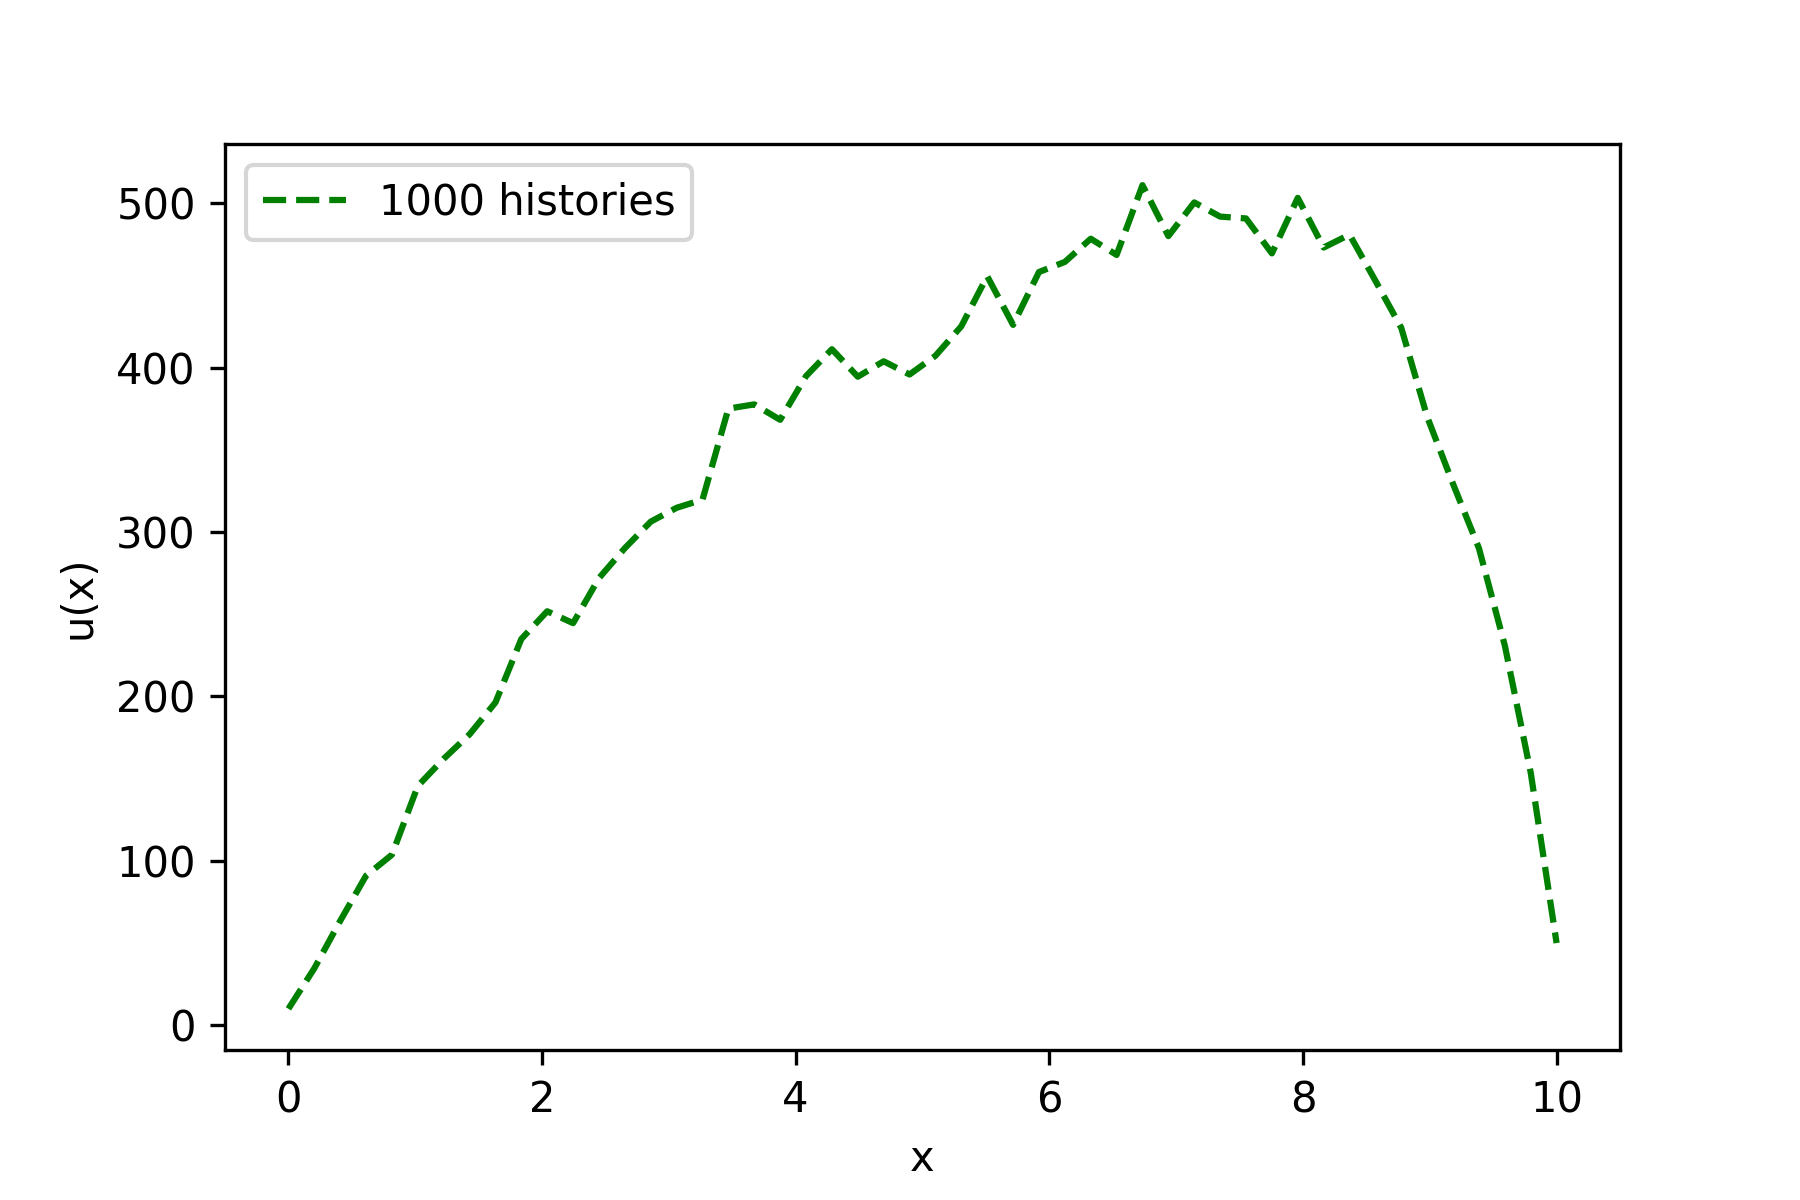
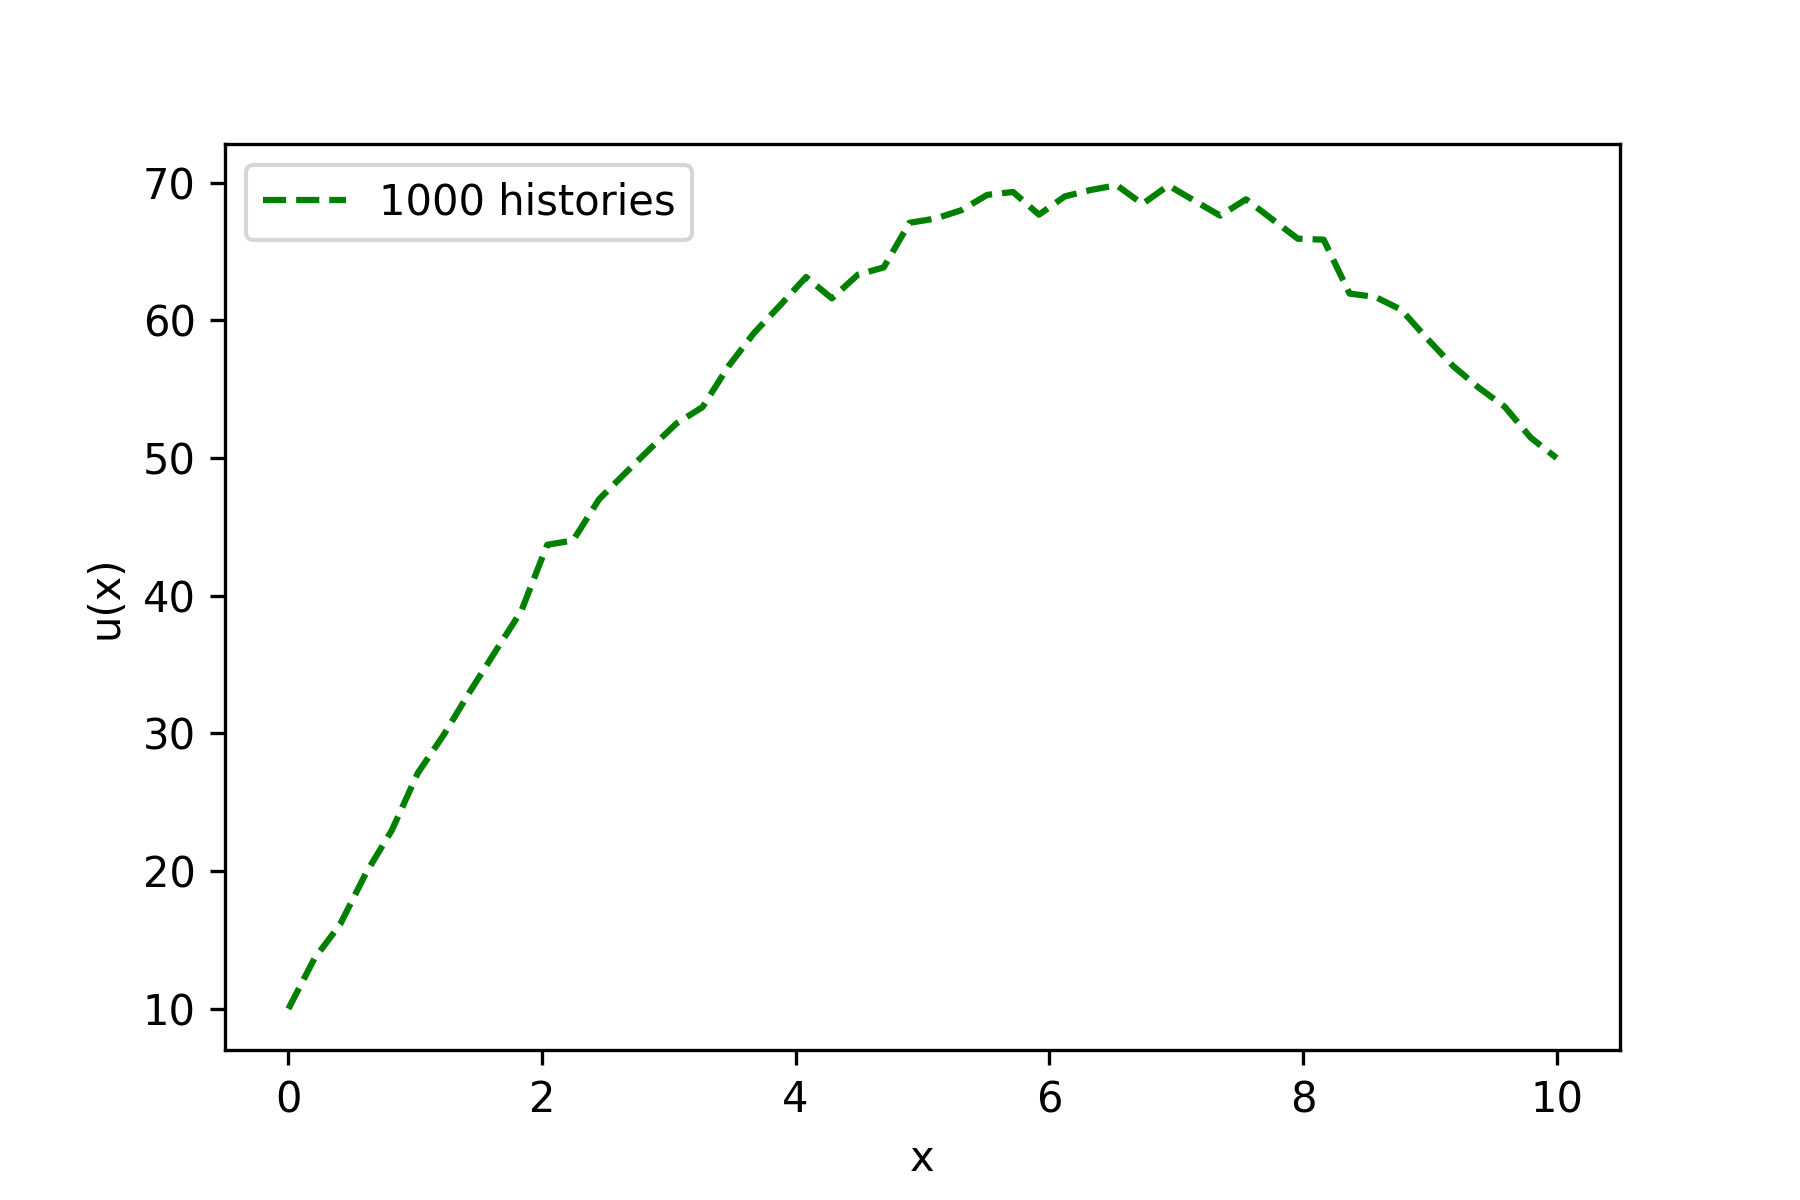
sandwich method not used yet; sampling and unfolding for error works great!

diff --git a/me777/project/sandwich.py b/me777/project/sandwich.py
@@ -5,14 +5,36 @@ from scipy.stats import norm
 from numpy.random import rand
 import matplotlib.pyplot as plt
 
-# sandwich method
+from matplotlib import rc, rcParams
+from nebp_response_functions import response_matrix
+from experimental_data import unfiltered1
+from spectrum import Spectrum
+from nebp_spectrum import FluxNEBP
+from nebp_unfolded_data import unfolded_data
 
-R = np.array([[1, 2, 3, 2], [3, 2, 1, 1]], dtype=np.float64)
-f_i = np.array([1, 1, 1, 1], dtype=np.float64)
-N = np.array([2, 2.5], dtype=np.float64)
-sig = np.array([0.1, 0.1], dtype=np.float64)
+
+# nice plots
+rc('font', **{'family': 'serif'})
+rcParams['xtick.direction'] = 'out'
+rcParams['ytick.direction'] = 'out'
+rcParams['xtick.labelsize'] = 12
+rcParams['ytick.labelsize'] = 12
+rcParams['lines.linewidth'] = 1.85
+rcParams['axes.labelsize'] = 15
+rcParams.update({'figure.autolayout': True})
+
+nebp = FluxNEBP(250)
+
+R = response_matrix
+f_i = nebp.values
+N = unfiltered1.values
+sig = unfiltered1.error
 
 sol = iterate(f_i, N, sig, R)
+solution = Spectrum(nebp.edges, sol)
+
+from_gravel = unfolded_data['e1_ne_gr']
+
 
 def sample(responses, errors):
     l = len(responses)
@@ -28,13 +50,53 @@ def sample(responses, errors):
 y = np.zeros(len(f_i))
 y2 = np.zeros(len(f_i))
 
+
+###############################################################################
+#                                iterative comparison
+##############################################################################
+
 n = 10
+fig = plt.figure(2)
+ax = fig.add_subplot(111)
+
 for i in range(n):
     sol = iterate(f_i, sample(N, sig), sig, R)
+    sol_spec = Spectrum(nebp.edges, sol)
     y += (sol)/n
     y2 += (sol**2)/n
+    ax.plot(sol_spec.step_x, sol_spec.step_y)
 
-error = (1 / (n - 1)) * (y**2 - y2)
-plt.plot(y)
-plt.errorbar(range(4), y, error)
+ax.set_xscale('log')
+ax.set_yscale('log')
+ax.set_xlabel('Energy $MeV$')
+ax.set_ylabel('Flux $cm^{-2}s^{-1}MeV^{-1}$')
+ax.set_xlim(1E-9, 20)
+plt.legend()
+ax.spines['top'].set_visible(False)
+ax.spines['right'].set_visible(False)
+ax.legend(frameon=False)
+
+
+error = np.sqrt((n / (n - 1)) * (y2 - y**2))
+solution = Spectrum(nebp.edges, y, error)
+
+
+###############################################################################
+#                                final comparison
+###############################################################################
+fig = plt.figure(0)
+ax = fig.add_subplot(111)
+ax.plot(nebp.step_x, nebp.step_y, color='k', label='Default Spectrum', linewidth=0.7,)
+ax.plot(solution.step_x, solution.step_y, color='indigo', label='Unfolded Spectrum', linewidth=0.7,)
+ax.errorbar(solution.midpoints, solution.normalized_values, solution.error / solution.widths, linestyle='None', color='indigo', linewidth=0.7,)
+ax.set_xscale('log')
+ax.set_yscale('log')
+ax.set_xlabel('Energy $MeV$')
+ax.set_ylabel('Flux $cm^{-2}s^{-1}MeV^{-1}$')
+ax.set_xlim(1E-9, 20)
+plt.legend()
+ax.spines['top'].set_visible(False)
+ax.spines['right'].set_visible(False)
+ax.legend(frameon=False)
+plt.savefig('comparison.png', dpi=300)
     

diff --git a/me777/hw5/hw5_p5.py b/me777/hw5/hw5_p5.py
@@ -4,7 +4,7 @@ import matplotlib.pyplot as plt
 
 
 def q(x):
-    return 10 - x
+    return 3
 
 
 def walk_on_lines(r, n, bounds, bound_temp, tol):
@@ -21,7 +21,8 @@ def walk_on_lines(r, n, bounds, bound_temp, tol):
                 line = [x - R, bounds[1]]
             x_old = x
             x = line[0] + rand()*(line[1] - line[0])
-            qs += q(x) * (x_old**2) / 2
+            dist = abs(x - x_old)
+            qs += q(dist) * (dist**2) / 2
             if x - bounds[0] < tol:
                 s += bound_temp[0] + qs
                 found = True
@@ -49,4 +50,4 @@ ax.plot(xs, t[1], color='green', linestyle='--', label='1000 histories')
 ax.set_xlabel('x')
 ax.set_ylabel('u(x)')
 ax.legend()
-plt.savefig('p5_2.png', dpi=300)
+plt.savefig('p5.png', dpi=300)
